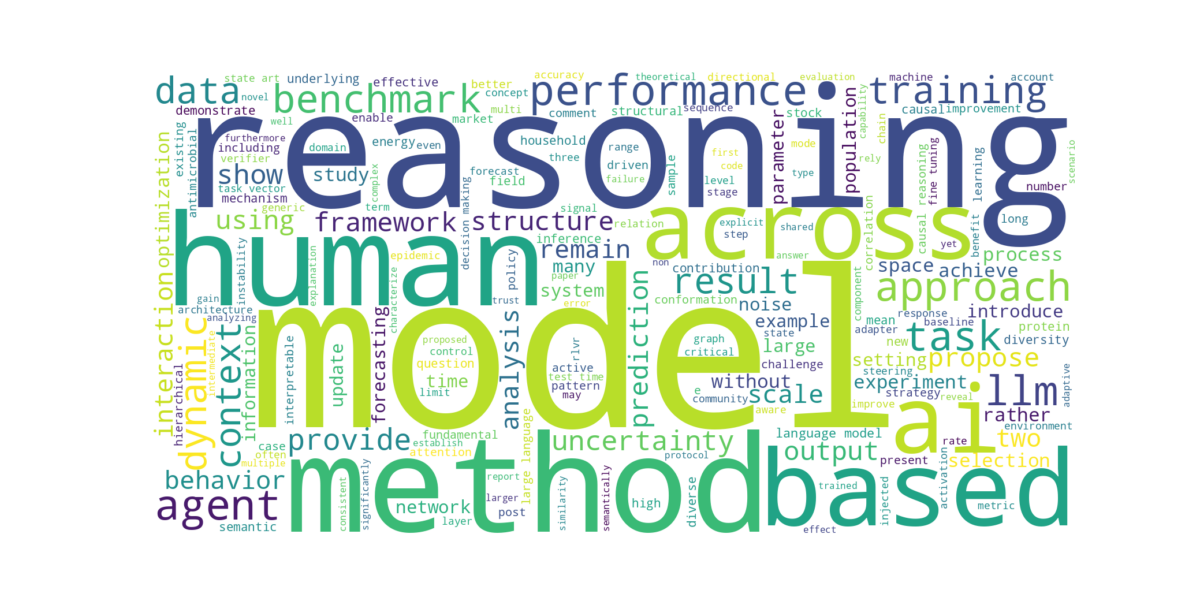
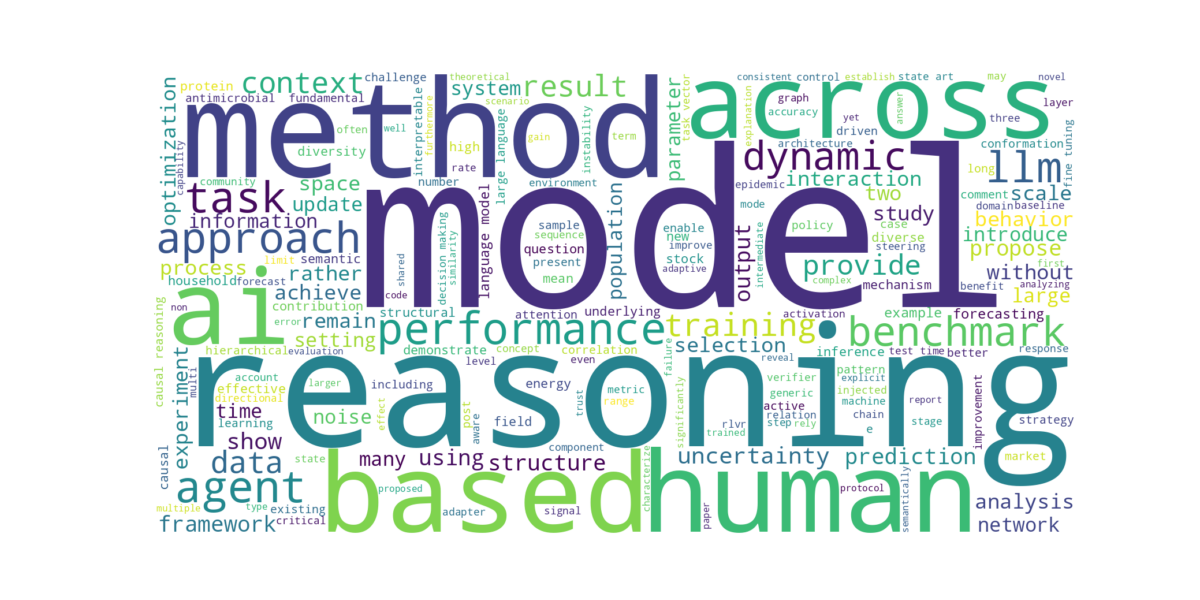
up

diff --git a/src/pipegrobid/flow/grobid_interaction.py b/src/pipegrobid/flow/grobid_interaction.py
@@ -46,7 +46,7 @@ def request_post(pdf: str, url_process_docs: str) -> requests.Response:
 def write_xml(response: requests.Response, dir_xmls: str, i: int) -> None:
             # si se procesa bien la peticion lo escriba en un tei.xml
         if response.status_code == 200:
-            path_xml = f"{dir_xmls}/paper{i+1}.tei.xml"
+            path_xml = f"{dir_xmls}/paper{i+1:02d}.tei.xml"
             
             with open(path_xml,"w", encoding= "utf-8") as paper:
                 paper.write(response.text)